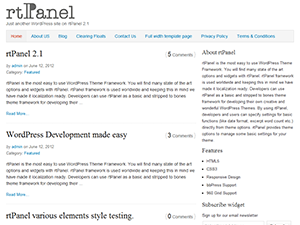
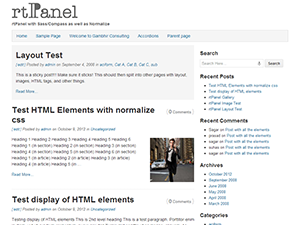
Update version and screen-shot

diff --git a/style.css b/style.css
@@ -2,7 +2,7 @@
 Theme Name: rtPanel
 Theme URI: http://rtcamp.com/rtpanel/
 Description: WordPress theme framework with Custom Menu, Header and Background along with Logo, Favicon, Featured Image, Feedburner, Facebook Open Graph, Google Custom Search Integration and more options. This theme comes with free technical support by team of 20+ full-time developers.
-Version: 2.3
+Version: 3.0
 Author: rtCamp
 Author URI: http://rtcamp.com/
 Contributors: rtCampers ( http://rtcamp.com/about/rtcampers/ )

diff --git a/style.scss b/style.scss
@@ -2,7 +2,7 @@
 Theme Name: rtPanel
 Theme URI: http://rtcamp.com/rtpanel/
 Description: WordPress theme framework with Custom Menu, Header and Background along with Logo, Favicon, Featured Image, Feedburner, Facebook Open Graph, Google Custom Search Integration and more options. This theme comes with free technical support by team of 20+ full-time developers.
-Version: 2.3
+Version: 3.0
 Author: rtCamp
 Author URI: http://rtcamp.com/
 Contributors: rtCampers ( http://rtcamp.com/about/rtcampers/ )
